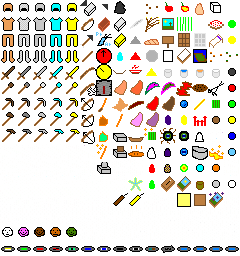
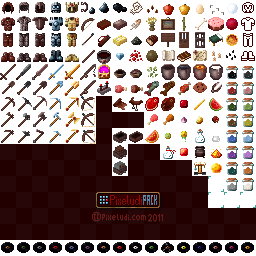
Switch to Pixeludi Pack as default textures

diff --git a/TrueCraft.Client/Modules/PlayerControlModule.cs b/TrueCraft.Client/Modules/PlayerControlModule.cs
@@ -276,7 +276,7 @@ namespace TrueCraft.Client.Modules
 
             var digging = Digging;
 
-            if (gamePad.IsConnected && gamePad.Triggers.Right > 0.5f)
+            if (gamePad.IsConnected && gamePad.Triggers.Right > 0.5f && gamePad.Triggers.Right < 0.5f)
                 digging = true;
             if (gamePad.IsConnected && gamePad.Triggers.Left > 0.5f && GamePadState.Triggers.Left < 0.5f)
             {

diff --git a/README.md b/README.md
@@ -40,7 +40,7 @@ If you are a dirty dev, you are more limited in how you can help. You can work o
 
 ## Assets
 
-TrueCraft is compatible with Minecraft beta 1.7.3 texture packs. We ship one of our own, based on [Programmer Art](https://github.com/deathcap/ProgrammerArt). You can install the official assets through the TrueCraft launcher if you wish.
+TrueCraft is compatible with Minecraft beta 1.7.3 texture packs. We ship the Pixeludi Pack (by Wojtek Mroczek) by default. You can install the Mojang assets through the TrueCraft launcher if you wish.
 
 ## Blah blah blah
 
